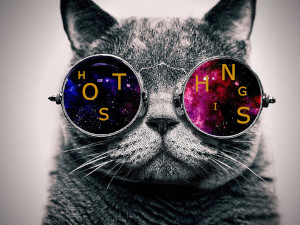
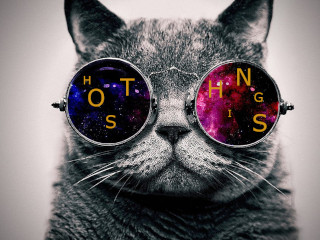
modify web enterprise

diff --git a/js/script.js b/js/script.js
@@ -2,16 +2,43 @@
 (function () {
 
   var s = document.getElementById('start');
+  var timer = 0;
+  if (window.innerWidth > 800) {
+    console.log('flag')
+    s.style.backgroundImage = "url('img/intro.jpg')";
+    var myInterval = setInterval(function changeImg() {
+      if (s.style.backgroundImage === 'url("img/intro.jpg")') {
+        s.style.backgroundImage = "url('img/intro2.jpg')";
+      } else {
+        s.style.backgroundImage = 'url("img/intro.jpg")';
+      }
+      timer++;
+      if (timer > 7) {
+        if (s.style.backgroundImage === 'url("img/intro2.jpg")') {
+          s.style.backgroundImage = "url('img/intro.jpg')";
+        }
+        clearInterval(myInterval);
 
-  // setTimeout(function changeImg() {
-  //     if (s.style.backgroundImage === 'url("img/chatmain3.jpg")') {
-  //       s.style.backgroundImage = "url('img/chatmain2.jpg')";
-  //       s.style.justifyContent = 'center';
-  //     } else {
-  //       s.style.backgroundImage = 'url("img/chatmain3.jpg")';
-  //     }
-  //     s.style.backgroundImage = 'url("img/logoHosthings3.png")';
-  // }, 3000);
+      }
+    }, 200);
+  }else{
+    s.style.backgroundImage = "url('img/intro3.jpg')";
+    var myInterval = setInterval(function changeImg() {
+      if (s.style.backgroundImage === 'url("img/intro3.jpg")') {
+        s.style.backgroundImage = "url('img/intro4.jpg')";
+      } else {
+        s.style.backgroundImage = 'url("img/intro3.jpg")';
+      }
+      timer++;
+      if (timer > 7) {
+        if (s.style.backgroundImage === 'url("img/intro4.jpg")') {
+          s.style.backgroundImage = "url('img/intro3.jpg')";
+        }
+        clearInterval(myInterval);
+
+      }
+    }, 200);
+  }
 
 
 })();

diff --git a/css/navbarShrunk.css b/css/navbarShrunk.css
@@ -115,14 +115,14 @@
 	font-size: 3em;
 }
 
-@media (0px <= width <= 700px) {
 
-    .logohosthingsIntro{
-        background-color: white;
-        background-image: url('../img/intro4.jpg');
+@media screen and (min-width: 381px) {
+        .logohosthingsIntro{
+        background-image: url('../img/intro.jpg');
         background-repeat: no-repeat;
         background-position: center;
-        height: 500px;
+       width: 380px;
+        height: 600px;
       }
-  }
+}
 
